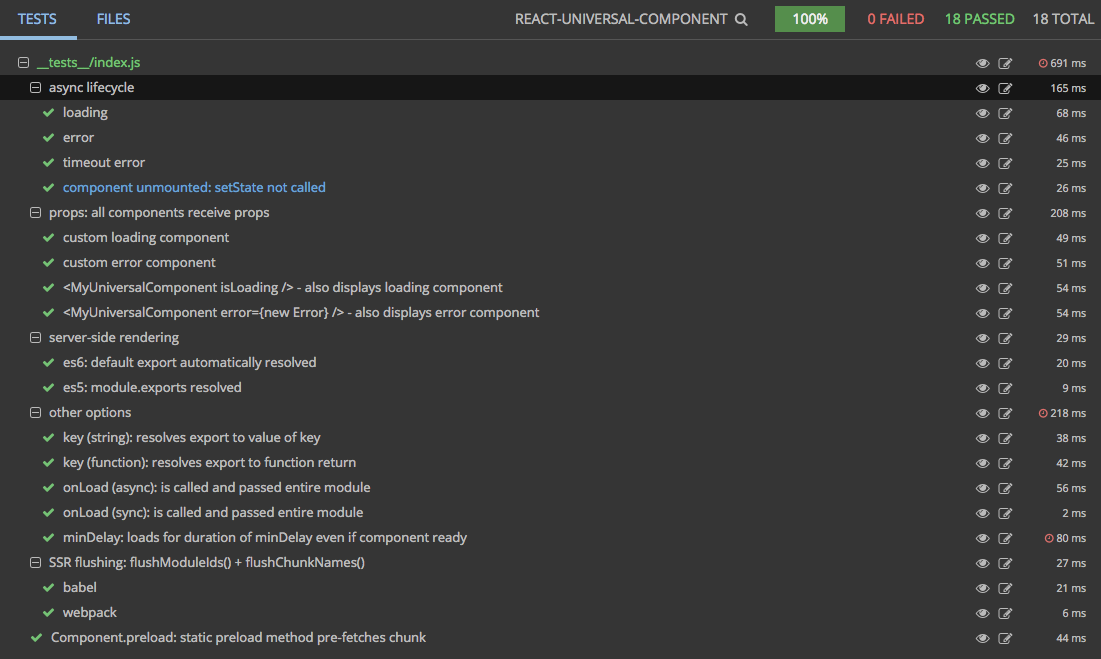
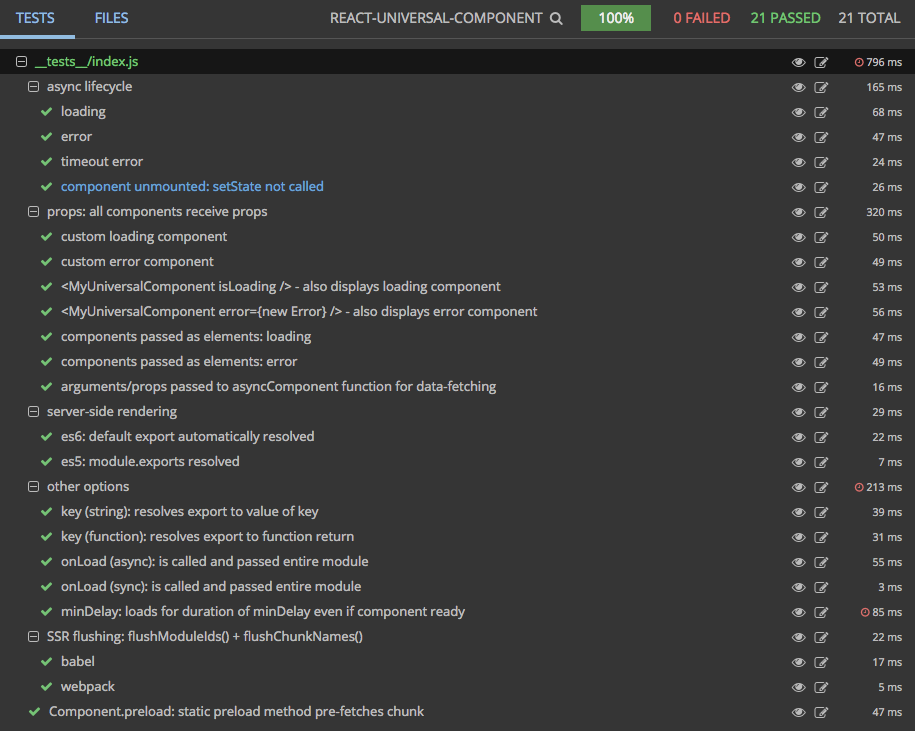
fix($docs): updated screenshot

Changed region(s): [[0.0, 0.0, 1.0, 1.0]]

diff --git a/src/index.js b/src/index.js
@@ -40,7 +40,7 @@ const DefaultError = () => <div>Error!</div>
 
 const isServer = typeof window === 'undefined'
 
-export default function universalComponent<Props: Props>(
+export default function universal<Props: Props>(
   component: AsyncComponent<Props>,
   opts: Options<Props> = {}
 ) {

diff --git a/README.md b/README.md
@@ -127,7 +127,7 @@ All are optional except `resolve` and if you are using Babel on the server, you 
 
 
 **In Depth:**
-> All components can be components or elements (e.g: `Loading` or `<Loading />`)
+> All components can be classes/functions or elements (e.g: `Loading` or `<Loading />`)
 
 - `loading` is the component class or function corresponding to your stateless component that displays while the primary import is loading. While testing out this package, you can leave it out as a simple default one is used.
 
@@ -289,12 +289,53 @@ What *Apollo* does here is fantastic, and to be clear: if you've designed your a
 
 I've seen ad hoc solutions that resolve promises and call `componentWillMount` async data fetching methods, and personally I'm against it. I recommend one of 2 solutions: use a routing solution (perhaps ad hoc) that determines your data needs and fetches them in parallel (`Promise.all`) and then dispatches the result as actions against your Redux store; ***and then render your app in one synchronous go***. OR secondly: use solutions dedicated to this problem like Meteor Development Group's *Apollo*. (Also, if it's not clear: this package will work perfectly with Apollo). The reason you're using Apollo is because it gets extreme value out of pairing your data-needs to components. With *Apollo*, you can use stateless component functions + slick HoCs--using `componentWillMount` and manually fetching data is a thing of the past. There's a trend of pairing data-needs to components, but I personally don't see it unless it's with GraphQL. If you're not using something like *Apollo*, figure out your data needs on the server and dispatch on your redux store before your single synchronous render. That's my conclusion and recommendation. The promise resolution stuff + sniffing out data fetching in `componentWillMount` is a mess unless someone else (*Apollo*) did it for you. I don't approve of ad hoc data-fetching in `componentWillMount`. I prefer my components truly pure unless it's with Apollo/Relay/Etc, other specialized HoCs or a [redux-specific routing solution](https://github.com/faceyspacey/redux-first-router) that handles it for you.
 
+Now that all said, and taking into consideration *Next.js*, if the Apollo-style promise resolution was built into, say, *Webpack Flush Chunks* as another flushing technique, it would be the final nail in *Next.js's* coffin, as far as the greater NPM/React community is concerned. See, along with SSR + code-splitting + pre-fetching, their initial innovation was universal async data-fetching resolution: https://github.com/zeit/next.js#fetching-data-and-component-lifecycle ...What you're looking at there is the 2 function technique (`getInitialProps` + render function) that *Next.js* does to do what *Async Reactor* (and this package) can do in a single function by combining any async needs with a returned component. In ours you could return a function that returns a React component to continue to receive props from its parent, eg: 
+
+``js
+const asyncWork = async (cb, props) => {
+  const prom = await Promise.all([
+    import('./User'),
+    fetch(`/user?id=${props.id}`) // SECRET FEATURE: props are passed to async function for precisely this
+  ])
+
+  const Component = prom[0].default
+  const data = await prom[1].json()
+
+  return props => <Component data={data} {...props} />
+}
+
+const UniversalComponent = () => universal(asyncWork, { asyncOnly: true } )
+```
+> This gets props from the same place (its parent), but it uses them in 2 different stages: once to get the initial data + modules to dynamically generate a component, and any time the parent updates props thereafter.
+
+Sweet, huh! The only thing we're missing is the server-side aspect. I'm pretty happy with Apollo, but that requires GraphQL. So there is a bonafied need for this since it's my opinion that REST is here to stay for a wide variety of use cases. My apps gotta be pretty complex before I consider using Apollo. If someone wanted to provide PRs to this package and *Webpack Flush Chunks* I'd happily merge it and would work with them to polish it. What you need is a flag in the options to `universal` like `asyncOnly` to tell it that it won't be using synchronous module resolution (super simple) or just detection of the lack of `resolve` prop (even better), and then *Webpack Flush Chunks* needs something like Apollo's `await renderToStringWithData(app)`:
+
+https://github.com/apollographql/react-apollo/blob/af2aac22d8e45aa7e3c30630b8cbbec27e30f2c1/src/server.ts#L126
+
+That's basically all the code that's needed. Hell, I wonder if we simply added a `fetchData` method (like Apollo expects) to `ReactUniversalComponent`, if we could just run `renderToStringWithData` on our component tree and it would work lol. There seems to be no Apollo-specific code, just promise resolution. See the expected `fetcData` method on component instances here:
+
+https://github.com/apollographql/react-apollo/blob/af2aac22d8e45aa7e3c30630b8cbbec27e30f2c1/src/server.ts#L111
+
+*The change we'd need to make:*
+```js
+export default function universal(asyncComponent, options) {
+  // ..
+  return class UniversalComponent extends React.Component {
+    fetchData() {
+      return requireAsync()
+    }
+    // ...
+```
+
+**Insane! Stay tuned ;)**
+
+
 Anyway, **what's the point in all this?**: a lot of work has been put into reviewing the trends, problems and all possible solutions so you don't have to. In the words of **@thejameskyle**, "use this shit!"
 
 
 ## FAQ
 
-- **What about the Babel plugin from *React Loadable*?** Saving one or 2 lines is not something I'm concerned with. If it's something you want to maintain and keep up to date, feel free to make a PR. There is a [problem](https://github.com/thejameskyle/react-loadable/pull/43) with transpiling any HoCs you might make. Perhaps the fact that `asyncComponent` is its own argument may make this an easier problem to solve here than with *React Loadable*.
+- **What about the Babel plugin from *React Loadable*?** Saving one or 2 lines is not something I'm concerned with. If it's something you want to maintain and keep up to date, feel free to make a PR. There is a [problem](https://github.com/thejameskyle/react-loadable/pull/43) with transpiling any HoCs you might make which wrap calls to `universal`. Perhaps the fact that `asyncComponent` is its own argument may make this an easier problem to solve here than with *React Loadable*.
 
 
 ## Contributing
